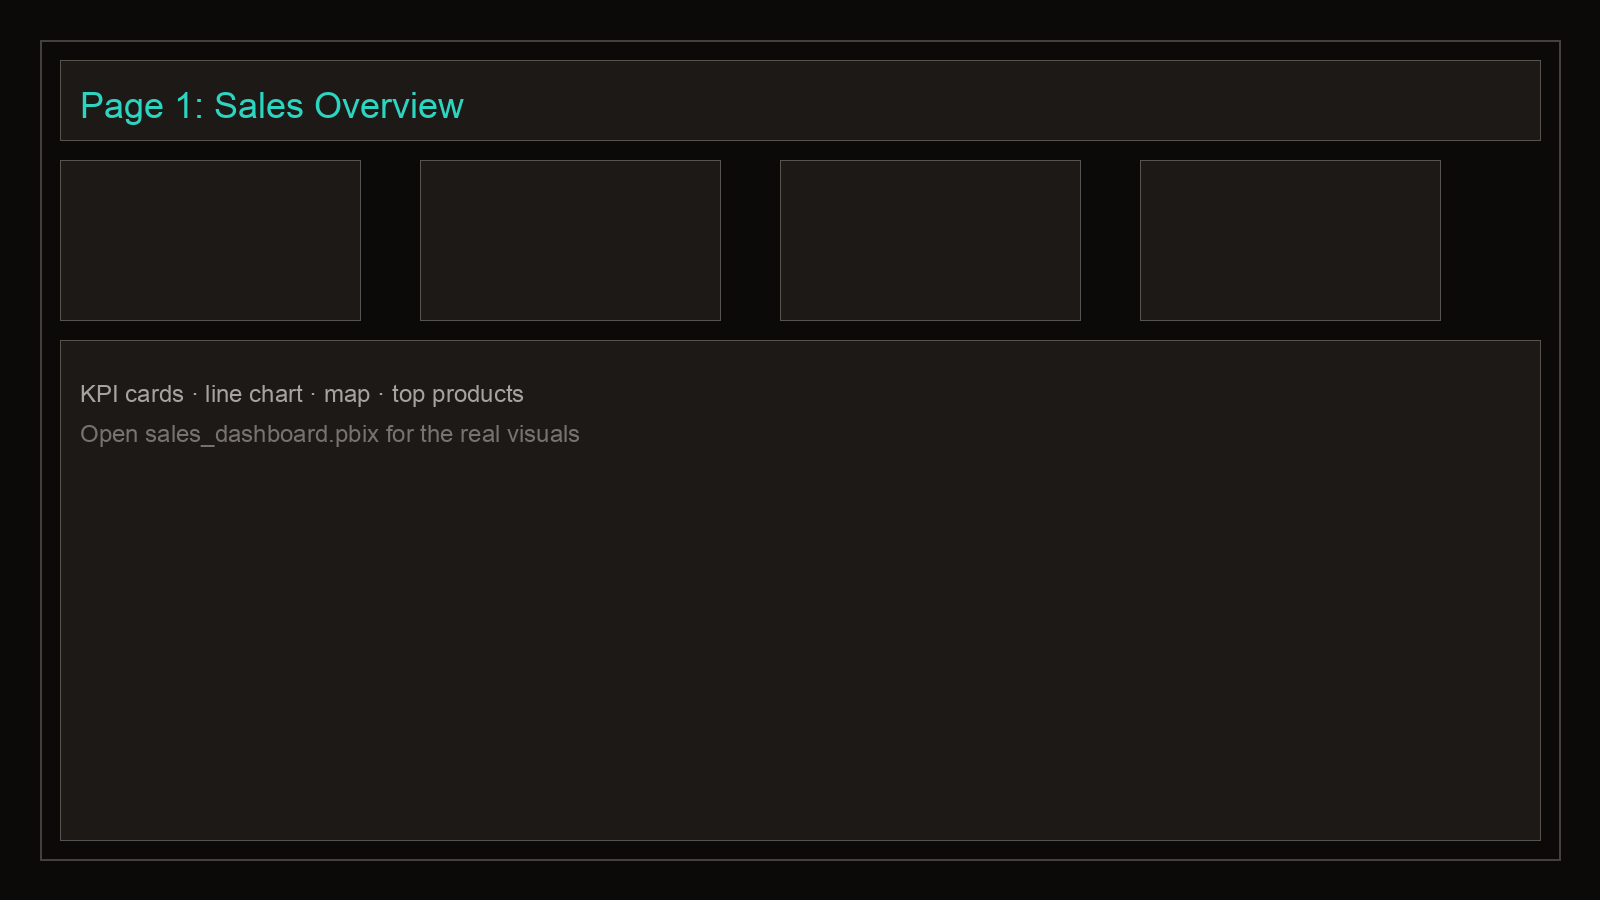
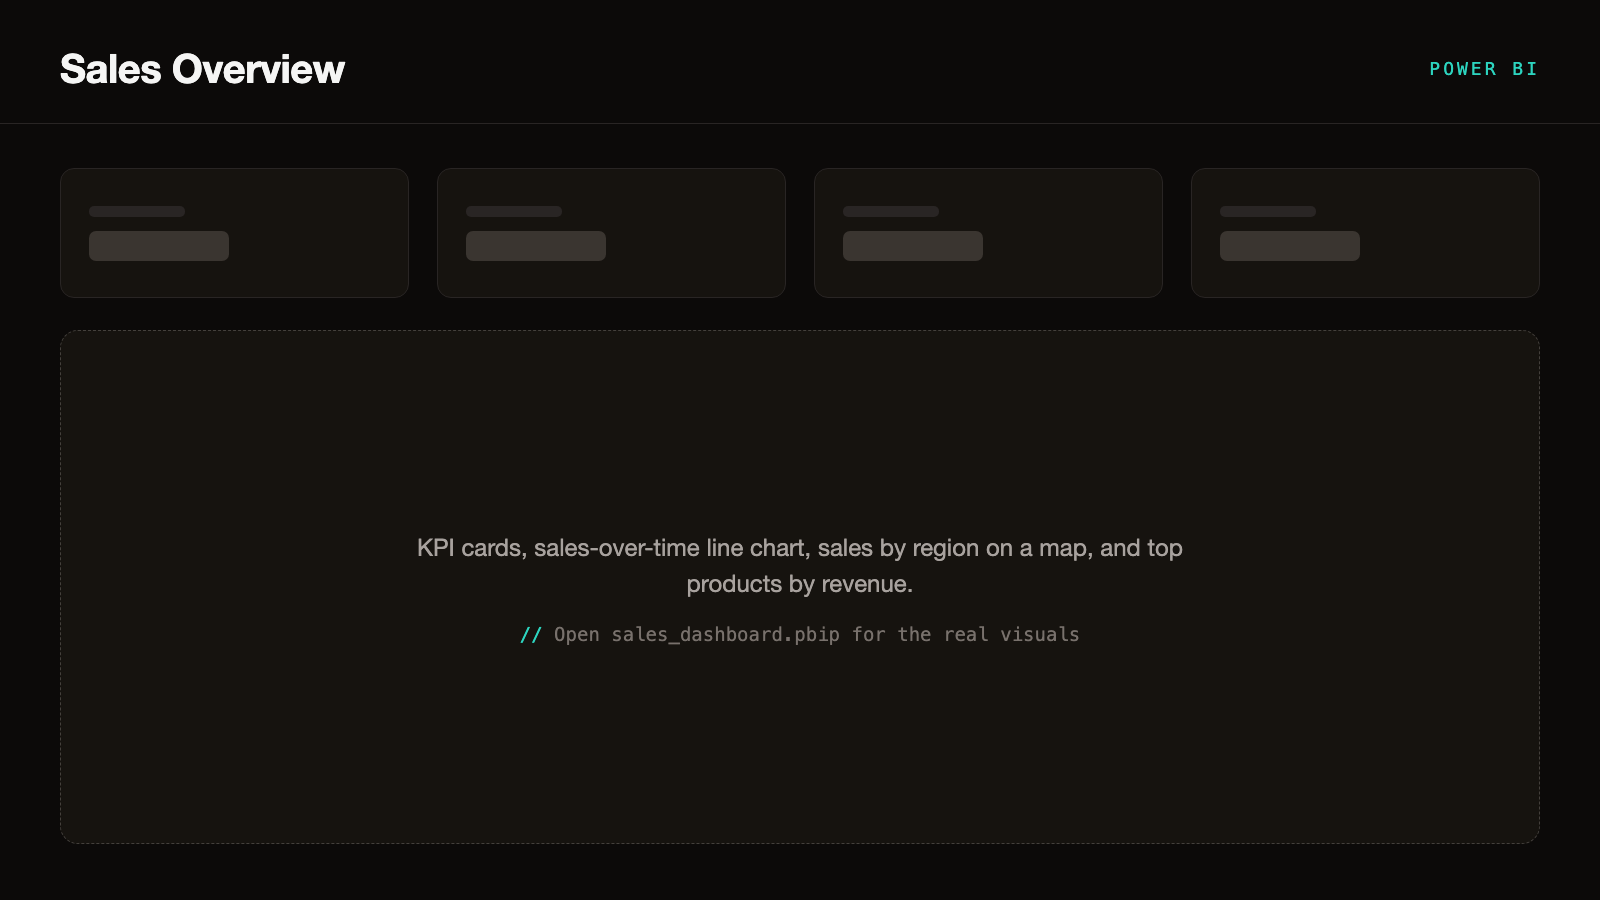
Fix Power BI placeholder caption (.pbix -> .pbip) + stale AGENTS URLs
- Regenerate the three Power BI wireframe placeholders with the correct
  sales_dashboard.pbip caption, on-brand (teal); update the matching alt text
  and body copy (PBIX -> .pbip / project file)
- AGENTS.md: update stale damato-data.vercel.app prod URLs to nicholasdamato

diff --git a/src/app/projects/power-bi-sales-dashboard/page.tsx b/src/app/projects/power-bi-sales-dashboard/page.tsx
@@ -270,7 +270,7 @@ YoY Growth =
         <figure className="mt-6 overflow-hidden rounded-xl border border-stone-800 bg-stone-950">
           <Image
             src="/projects/power-bi/page-1-sales-overview.png"
-            alt="Placeholder wireframe for Sales Overview: header title, row of four empty KPI slots, large panel noting KPI cards line chart map and top products. Open PBIX for real visuals."
+            alt="Placeholder wireframe for Sales Overview: header title, row of four empty KPI slots, large panel noting KPI cards line chart map and top products. Open the .pbip in Power BI Desktop for the real visuals."
             width={1600}
             height={900}
             sizes="(min-width: 768px) 768px, 100vw"
@@ -288,7 +288,7 @@ YoY Growth =
         <figure className="mt-6 overflow-hidden rounded-xl border border-stone-800 bg-stone-950">
           <Image
             src="/projects/power-bi/page-2-sales-details.png"
-            alt="Placeholder wireframe for Sales Details: header, four empty KPI slots, panel labeled employee scorecard commission promotions. Open PBIX for real visuals."
+            alt="Placeholder wireframe for Sales Details: header, four empty KPI slots, panel labeled employee scorecard commission promotions. Open the .pbip in Power BI Desktop for the real visuals."
             width={1600}
             height={900}
             sizes="(min-width: 768px) 768px, 100vw"
@@ -306,7 +306,7 @@ YoY Growth =
         <figure className="mt-6 overflow-hidden rounded-xl border border-stone-800 bg-stone-950">
           <Image
             src="/projects/power-bi/page-3-salary-analysis.png"
-            alt="Placeholder wireframe for Salary Analysis: header, four empty KPI slots, panel labeled compensation vs review score and salary by title. Open PBIX for real visuals."
+            alt="Placeholder wireframe for Salary Analysis: header, four empty KPI slots, panel labeled compensation vs review score and salary by title. Open the .pbip in Power BI Desktop for the real visuals."
             width={1600}
             height={900}
             sizes="(min-width: 768px) 768px, 100vw"
@@ -374,7 +374,7 @@ YoY Growth =
         <p className="text-sm text-stone-400">
           Built as the final project for WCTC&apos;s Data Visualization course.
           The data is AdventureWorks-style sales records embedded directly in
-          the PBIX, so opening it locally needs no external connections.
+          the project file, so opening it locally needs no external connections.
         </p>
       </article>
     </main>

diff --git a/AGENTS.md b/AGENTS.md
@@ -34,7 +34,7 @@ This version has breaking changes — APIs, conventions, and file structure may 
 
 | Variable | Production / Preview | Development (Vercel “Development”) | Local `.env.local` |
 |----------|----------------------|-----------------------------------|--------------------|
-| `NEXT_PUBLIC_SITE_URL` | `https://damato-data.vercel.app` (no trailing slash) | `http://localhost:3000` | Same as Development column |
+| `NEXT_PUBLIC_SITE_URL` | `https://nicholasdamato.vercel.app` (no trailing slash) | `http://localhost:3000` | Same as Development column |
 | `ANALYTICS_SECRET` | Set in dashboard or CLI | Same if you test `/admin/analytics` locally | Copy from Vercel or set your own |
 | KV (`KV_REST_API_*`) | From Upstash / Vercel Storage | Optional; `vercel dev` can inject from linked project | `vercel env pull` or leave empty |
 
@@ -44,10 +44,10 @@ This version has breaking changes — APIs, conventions, and file structure may 
 
 ```bash
 # Production
-vercel env add NEXT_PUBLIC_SITE_URL production --value "https://damato-data.vercel.app" --no-sensitive --yes
+vercel env add NEXT_PUBLIC_SITE_URL production --value "https://nicholasdamato.vercel.app" --no-sensitive --yes
 
 # Preview — third arg "" applies to all preview branches (non-interactive)
-vercel env add NEXT_PUBLIC_SITE_URL preview "" --value "https://damato-data.vercel.app" --no-sensitive --yes
+vercel env add NEXT_PUBLIC_SITE_URL preview "" --value "https://nicholasdamato.vercel.app" --no-sensitive --yes
 
 # Vercel “Development” (used by vercel env pull / vercel dev)
 vercel env add NEXT_PUBLIC_SITE_URL development --value "http://localhost:3000" --no-sensitive --yes
@@ -63,7 +63,7 @@ vercel env pull
 
 Template without secrets: [`env.example`](env.example).
 
-**Deployment:** `vercel --prod` from project root. Live at https://damato-data.vercel.app. Vercel project: astral-productions/damato-portfolio.
+**Deployment:** `vercel --prod` from project root. Live at https://nicholasdamato.vercel.app. Vercel project: astral-productions/damato-portfolio.
 
 **Build checks before shipping:**
 ```bash